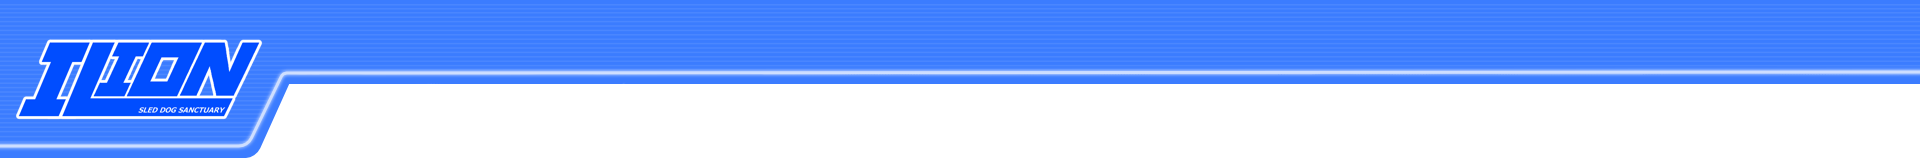
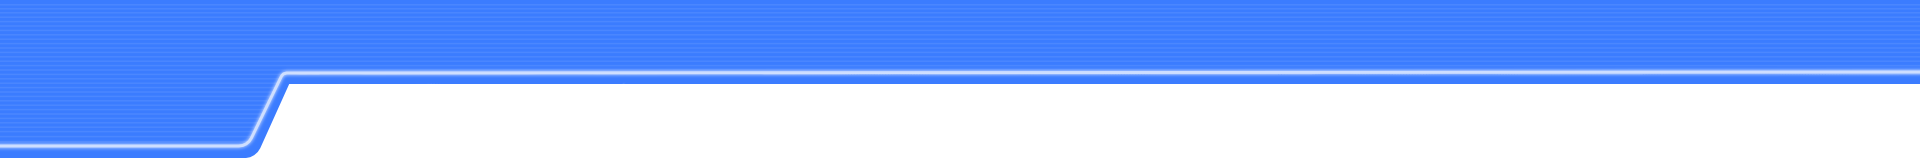
Revisions 1
First stage of revisions based on user (roby) feedback.

Changed region(s): [[0.0, 0.2278, 0.1562, 0.7595]]

diff --git a/styles.css b/styles.css
@@ -17,8 +17,30 @@ body {
       linear-gradient(to bottom, var(--gridlines) 1px, transparent 1px);
 }
 
+#wrapper {
+    position: absolute;
+    top: 185px;
+}
+
 .banner {
-    width: 100%;
+    position: absolute;
+    width: 2000px;
+    overflow: clip;
+}
+
+.logo {
+    position: absolute;
+    height: 105px;
+    width: auto;
+    top: 25px;
+    left: 15px;
+}
+
+.title {
+    position: absolute;
+    top: 100px;
+    left: 320px;
+    font-size: 52px;
 }
 
 #splash {
@@ -67,7 +89,7 @@ ul {
     width: 100%;
     margin-top: 30px;
     margin-right: 75px;
-    margin-left: 75px;
+    margin-left: 255px;
 }
 
 /* Images that appear in the textboxes */
@@ -93,7 +115,7 @@ ul {
     padding-left: 55px;
     padding-right: 55px;
 
-    margin: 0 auto;
+    /* margin: 0 auto; */
 
     margin-top: 15px;
     margin-bottom: 15px;
@@ -117,17 +139,25 @@ ul {
 }
 
 .grid-item img {
-    filter: drop-shadow(0 0 0.75rem grey)
+    /* filter: drop-shadow(0 0 0.75rem grey) */
+    transition: all .2s ease-in-out;
 }
 
 .grid-item img:hover {
-    filter: drop-shadow(0 0 0.75rem var(--ilion-blue));
+    transform: scale(1.1);
+    /* filter: drop-shadow(0 0 0.75rem var(--ilion-blue)); */
+}
+
+/* Make the sidebar move while scrolling */
+#sidebarSpacing {
+    position: sticky;
+    top: 200px;
 }
 
 /* Thank you W3 */
 /* Style the links inside the sidenav */
-#mainSidebar a {
-    position: absolute; /* Position them relative to the browser window */
+#mainSidebar a, button {
+    position: fixed; /* Position them relative to the browser window */
     left: -30px; /* Position them just slightly outside of the screen */
     transition: 0.3s; /* Add transition on hover */
     padding: 10px; /* 10px padding */
@@ -142,8 +172,7 @@ ul {
 }
 
 #mainSidebar li {
-    margin-top: 32px;
-    margin-bottom: 32px;
+    margin-bottom: 28px;
     width: 185px;
     height: 40px;
 }
@@ -154,19 +183,13 @@ ul {
 
 /* Literally just the "TEAM" button dropdown menu */
 .accordion {
-    background-image: url("/images/sidebar_button.png");
-    background-size: 100% 100%;
-
-    color: var(--ilion-blue); /* Not sure why it isn't inheriting the body font styling but whatever */
-    font-family: 'Squada One', sans-serif; /* I'll just add it again here */
+    color: var(--ilion-blue); /* Button class overwrites font styling, so I have to re-add it here */
+    font-family: 'Squada One', sans-serif;
     font-size: 32px;
 
-    width: 210px; /* Sizing it to look like the others */
-    height: 50px;
-    margin-bottom: -32px; /* Fixing the spacing to make it even */
-
-    text-align: center; /* Center the text */
-    text-decoration: none; /* Remove underline */
+    width: 242px; /* Sizing it to look like the others */
+    height: 55px;
+    margin-bottom: -32px;
 
     background-color: transparent; /* Overwrite CSS native button background color */
     border: none;
@@ -176,10 +199,9 @@ ul {
 }
 
 .active, .accordion:hover {
-    filter: brightness(90%); /* On mouse-over, darken the buton */
+    left: -10px; /* On mouse-over */
 }
 
-/* These are the buttons that are shown when you click on "TEAM" */
 .teamsPanel {
     display: none;
     overflow: hidden;
@@ -187,9 +209,11 @@ ul {
 
 #teamsPopout {
     width: 100%;
-    margin-left: 100px;
+    margin-left: 245px;
 }
 
+/* These are the buttons that are shown when you click on "TEAM" */
 #mainSidebar a.popout {
+    width: 180px;
     background-image: url("/images/popout_button.png"); /* Closed chevrons */
 }

diff --git a/index.html b/index.html
@@ -12,9 +12,14 @@
         <!-- Site Title -->
         <title>Ilion Sanctuary</title>
     </head>
+
     <body>
         <!-- Banner Image -->
-        <a class="header" href="/index.html"><img src="/images/banner_alt.png" class="banner" alt="Team Ilion"></a>
+        <img src="/images/banner.png" class="banner" alt="Team Ilion"></img>
+        <a href="/index.html"><img src="/images/ilion_logo.png" class="logo" alt="Sled Dog Sanctuary"></a>
+
+        <!-- Page Title-->
+        <div class="title">TEAM ILION</div>
 
         <div id="wrapper">
 
@@ -25,15 +30,17 @@
                 <li><a href="/about.html" id="about"><em>ABOUT</em></a></li>
 
                 <!-- Very jank offset so that it matches the other buttons -->
-                <button class="accordion"><em>TEAM&nbsp;&nbsp;&nbsp;&nbsp;&nbsp;</em></button>
+                <li>
+                <button class="accordion"><em>TEAM</em></button>
                 <div class="teamsPanel">
                   <p>
                     <ul>
-                    <li><a id="teamsPopout" class="popout" href="/team.html" id="staff"><em>STAFF</em></a></li>
-                    <li><a id="teamsPopout" class="popout" href="/retired.html" id="retired"><em>RETIRED</em></a></li>
+                      <li><a id="teamsPopout" class="popout" href="/team.html" id="staff"><em>STAFF</em></a></li>
+                      <li><a id="teamsPopout" class="popout" href="/retired.html" id="retired"><em>RETIRED</em></a></li>
                     </ul>
                   </p>
                 </div>
+                </li>
 
                 <li><a href="/sponsors.html" id="sponsors"><em>SPONSORS</em></a></li>
                 <li><a href="/blog.html" id="blog"><em>BLOG</em></a></li>

diff --git a/retired.html b/retired.html
@@ -14,7 +14,11 @@
     </head>
     <body>
         <!-- Banner Image -->
-        <a href="/index.html"><img src="/images/banner.png" class="banner" alt="Team Ilion"></a>
+        <img src="/images/banner.png" class="banner" alt="Team Ilion"></img>
+        <a href="/index.html"><img src="/images/ilion_logo.png" class="logo" alt="Sled Dog Sanctuary"></a>
+
+        <!-- Page Title-->
+        <div class="title">TEAM ILION</div>
 
         <div id="wrapper">
 
@@ -25,7 +29,8 @@
                         <li><a href="/about.html" id="about"><em>ABOUT</em></a></li>
 
                         <!-- Very jank offset so that it matches the other buttons -->
-                        <button class="accordion"><em>TEAM&nbsp;&nbsp;&nbsp;&nbsp;&nbsp;</em></button>
+                        <li>
+                        <button class="accordion"><em>TEAM</em></button>
                         <div class="teamsPanel">
                         <p>
                             <ul>
@@ -34,6 +39,7 @@
                             </ul>
                         </p>
                         </div>
+                        </li>
 
                         <li><a href="/sponsors.html" id="sponsors"><em>SPONSORS</em></a></li>
                         <li><a href="/blog.html" id="blog"><em>BLOG</em></a></li>

diff --git a/team.html b/team.html
@@ -14,7 +14,11 @@
     </head>
     <body>
         <!-- Banner Image -->
-        <a href="/index.html"><img src="/images/banner.png" class="banner" alt="Team Ilion"></a>
+        <img src="/images/banner.png" class="banner" alt="Team Ilion"></img>
+        <a href="/index.html"><img src="/images/ilion_logo.png" class="logo" alt="Sled Dog Sanctuary"></a>
+
+        <!-- Page Title-->
+        <div class="title">TEAM ILION</div>
 
         <div id="wrapper">
 
@@ -25,7 +29,8 @@
                         <li><a href="/about.html" id="about"><em>ABOUT</em></a></li>
 
                         <!-- Very jank offset so that it matches the other buttons -->
-                        <button class="accordion"><em>TEAM&nbsp;&nbsp;&nbsp;&nbsp;&nbsp;</em></button>
+                        <li>
+                        <button class="accordion"><em>TEAM</em></button>
                         <div class="teamsPanel">
                         <p>
                             <ul>
@@ -34,6 +39,7 @@
                             </ul>
                         </p>
                         </div>
+                        </li>
 
                         <li><a href="/sponsors.html" id="sponsors"><em>SPONSORS</em></a></li>
                         <li><a href="/blog.html" id="blog"><em>BLOG</em></a></li>

diff --git a/about.html b/about.html
@@ -14,8 +14,12 @@
     </head>
     <body>
         <!-- Banner Image -->
-        <a href="/index.html"><img src="/images/banner.png" class="banner" alt="Team Ilion"></a>
+        <img src="/images/banner.png" class="banner" alt="Team Ilion"></img>
+        <a href="/index.html"><img src="/images/ilion_logo.png" class="logo" alt="Sled Dog Sanctuary"></a>
 
+        <!-- Page Title-->
+        <div class="title">TEAM ILION</div>
+        
         <div id="wrapper">
 
             <!-- Sidebar -->
@@ -25,7 +29,8 @@
                     <li><a href="/about.html" id="about"><em>ABOUT</em></a></li>
 
                     <!-- Very jank offset so that it matches the other buttons -->
-                    <button class="accordion"><em>TEAM&nbsp;&nbsp;&nbsp;&nbsp;&nbsp;</em></button>
+                    <li>
+                    <button class="accordion"><em>TEAM</em></button>
                     <div class="teamsPanel">
                     <p>
                         <ul>
@@ -34,6 +39,7 @@
                         </ul>
                     </p>
                     </div>
+                    </li>
 
                     <li><a href="/sponsors.html" id="sponsors"><em>SPONSORS</em></a></li>
                     <li><a href="/blog.html" id="blog"><em>BLOG</em></a></li>

diff --git a/sponsors.html b/sponsors.html
@@ -14,8 +14,12 @@
     </head>
     <body>
         <!-- Banner Image -->
-        <a href="/index.html"><img src="/images/banner.png" class="banner" alt="Team Ilion"></a>
+        <img src="/images/banner.png" class="banner" alt="Team Ilion"></img>
+        <a href="/index.html"><img src="/images/ilion_logo.png" class="logo" alt="Sled Dog Sanctuary"></a>
 
+        <!-- Page Title-->
+        <div class="title">TEAM ILION</div>
+        
         <div id="wrapper">
 
             <!-- Sidebar -->
@@ -25,7 +29,8 @@
                     <li><a href="/about.html" id="about"><em>ABOUT</em></a></li>
 
                     <!-- Very jank offset so that it matches the other buttons -->
-                    <button class="accordion"><em>TEAM&nbsp;&nbsp;&nbsp;&nbsp;&nbsp;</em></button>
+                    <li>
+                    <button class="accordion"><em>TEAM</em></button>
                     <div class="teamsPanel">
                     <p>
                         <ul>
@@ -34,6 +39,7 @@
                         </ul>
                     </p>
                     </div>
+                    </li>
 
                     <li><a href="/sponsors.html" id="sponsors"><em>SPONSORS</em></a></li>
                     <li><a href="/blog.html" id="blog"><em>BLOG</em></a></li>

diff --git a/blog.html b/blog.html
@@ -14,7 +14,11 @@
     </head>
     <body>
         <!-- Banner Image -->
-        <a href="/index.html"><img src="/images/banner.png" class="banner" alt="Team Ilion"></a>
+        <img src="/images/banner.png" class="banner" alt="Team Ilion"></img>
+        <a href="/index.html"><img src="/images/ilion_logo.png" class="logo" alt="Sled Dog Sanctuary"></a>
+
+        <!-- Page Title-->
+        <div class="title">TEAM ILION</div>
 
         <div id="wrapper">
 
@@ -25,7 +29,8 @@
                     <li><a href="/about.html" id="about"><em>ABOUT</em></a></li>
 
                     <!-- Very jank offset so that it matches the other buttons -->
-                    <button class="accordion"><em>TEAM&nbsp;&nbsp;&nbsp;&nbsp;&nbsp;</em></button>
+                    <li>
+                    <button class="accordion"><em>TEAM</em></button>
                     <div class="teamsPanel">
                     <p>
                         <ul>
@@ -34,6 +39,7 @@
                         </ul>
                     </p>
                     </div>
+                    </li>
 
                     <li><a href="/sponsors.html" id="sponsors"><em>SPONSORS</em></a></li>
                     <li><a href="/blog.html" id="blog"><em>BLOG</em></a></li>

diff --git a/support.html b/support.html
@@ -14,7 +14,11 @@
     </head>
     <body>
         <!-- Banner Image -->
-        <a href="/index.html"><img src="/images/banner.png" class="banner" alt="Team Ilion"></a>
+        <img src="/images/banner.png" class="banner" alt="Team Ilion"></img>
+        <a href="/index.html"><img src="/images/ilion_logo.png" class="logo" alt="Sled Dog Sanctuary"></a>
+
+        <!-- Page Title-->
+        <div class="title">TEAM ILION</div>
 
         <div id="wrapper">
 
@@ -25,7 +29,8 @@
                     <li><a href="/about.html" id="about"><em>ABOUT</em></a></li>
 
                     <!-- Very jank offset so that it matches the other buttons -->
-                    <button class="accordion"><em>TEAM&nbsp;&nbsp;&nbsp;&nbsp;&nbsp;</em></button>
+                    <li>
+                    <button class="accordion"><em>TEAM</em></button>
                     <div class="teamsPanel">
                     <p>
                         <ul>
@@ -34,6 +39,7 @@
                         </ul>
                     </p>
                     </div>
+                    </li>
 
                     <li><a href="/sponsors.html" id="sponsors"><em>SPONSORS</em></a></li>
                     <li><a href="/blog.html" id="blog"><em>BLOG</em></a></li>
